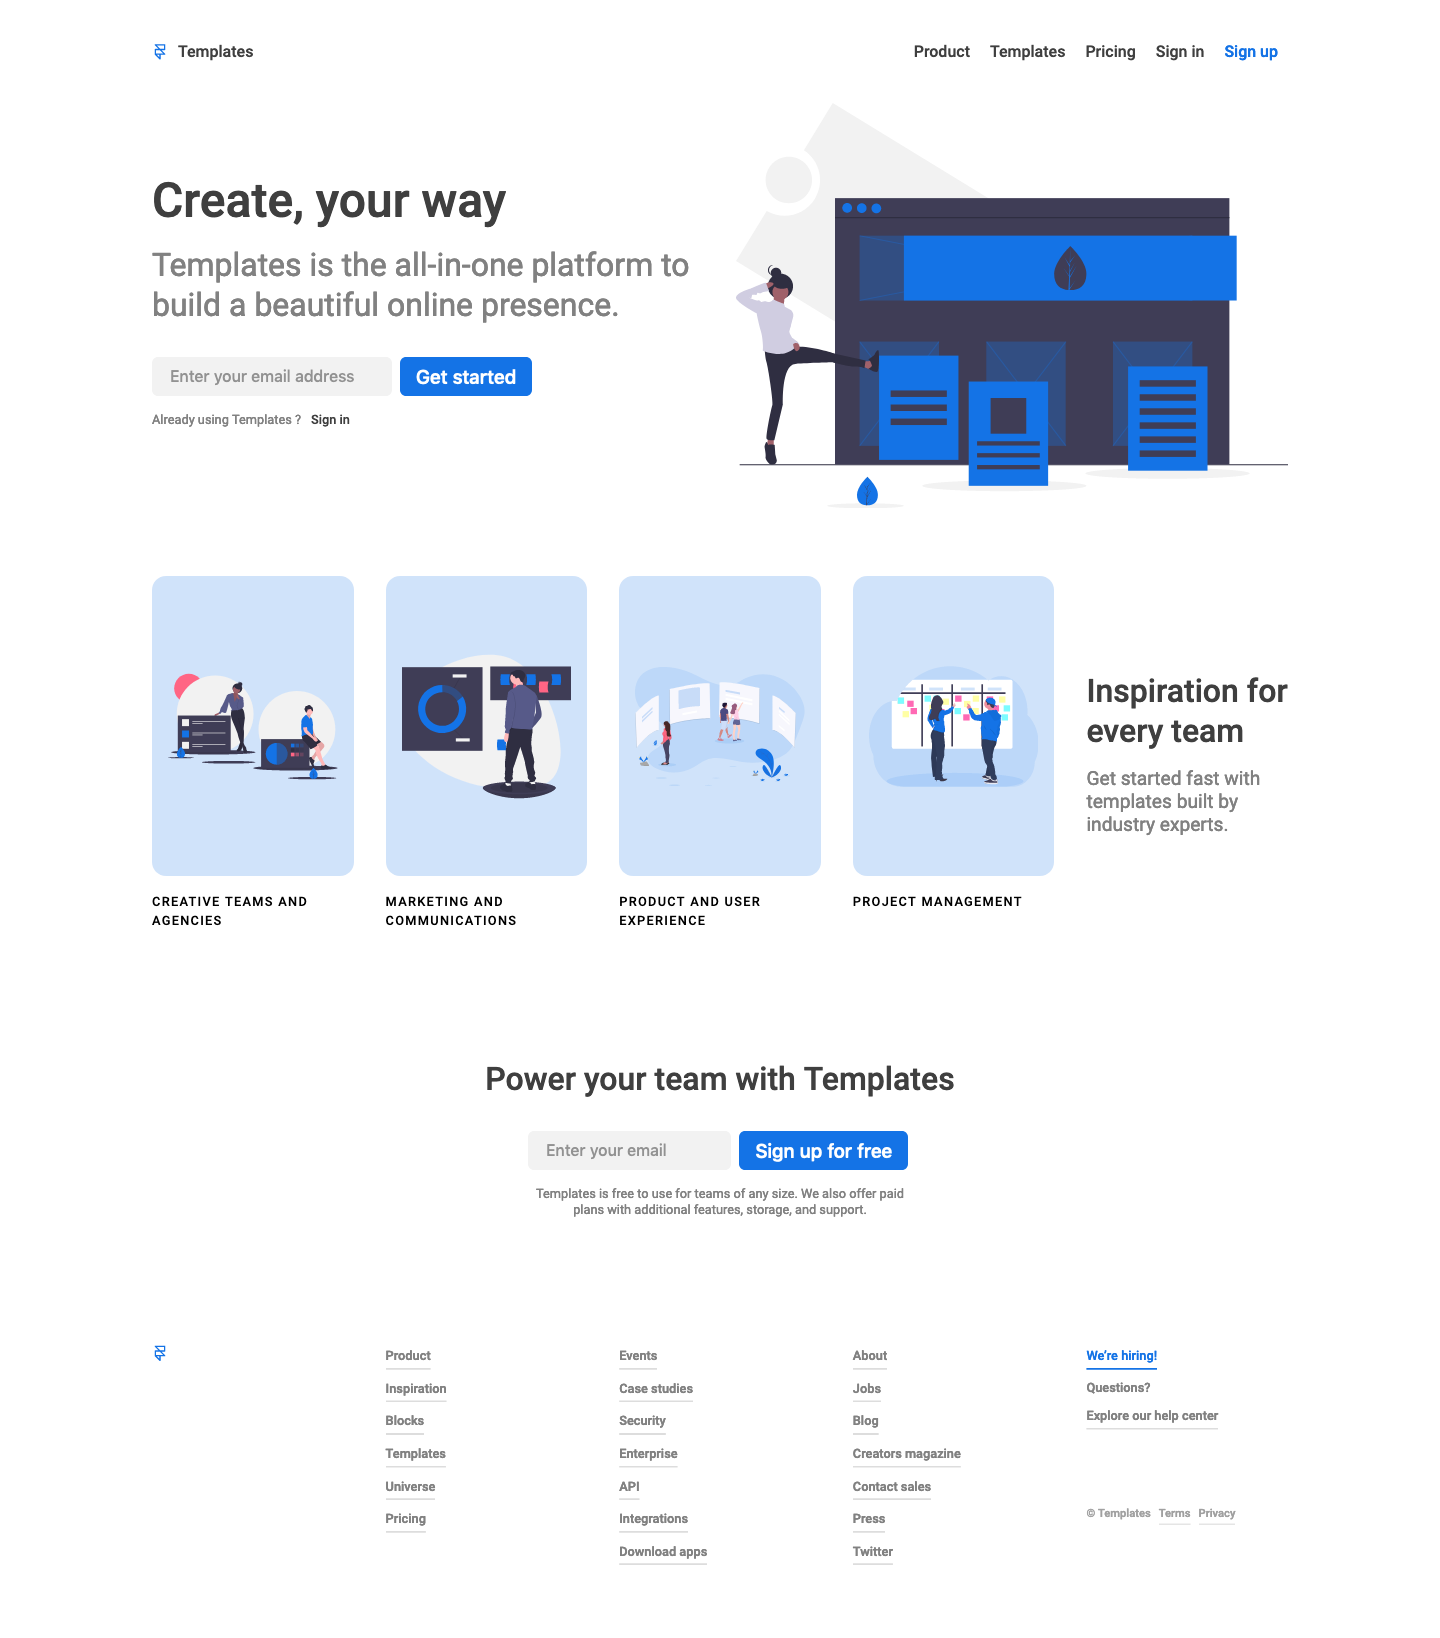
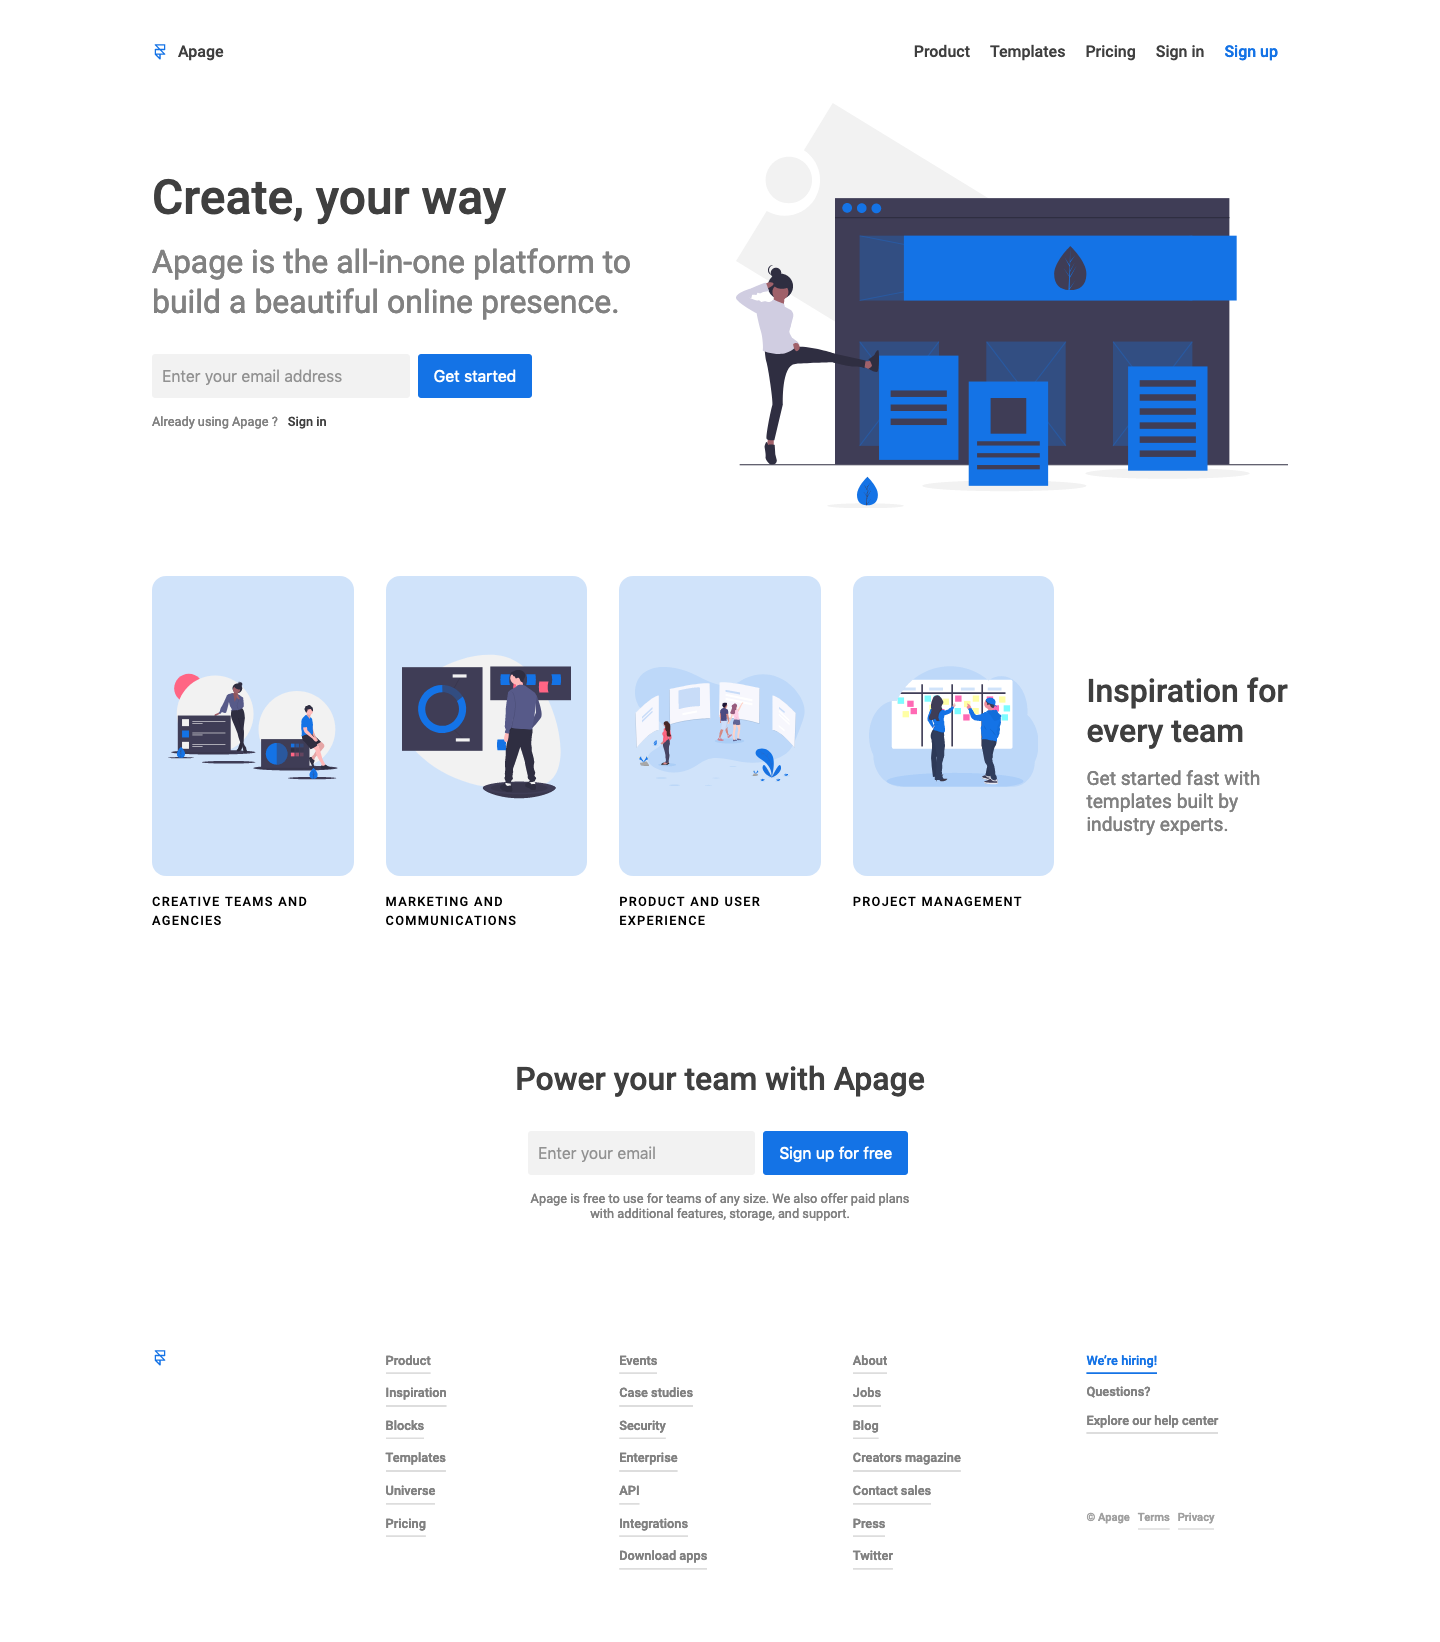
Updates branding

diff --git a/src/features/home/components/SignUp.js b/src/features/home/components/SignUp.js
@@ -2,6 +2,7 @@ import React from "react";
 import styled from "styled-components";
 
 import EmailForm from "./EmailForm";
+import { NAME } from "../../../core/constants";
 
 const Wrapper = styled.section`
   padding: 4rem 2rem;
@@ -33,15 +34,15 @@ const Text = styled.div`
 function SignUp() {
   return (
     <Wrapper>
-      <Title>Power your team with Templates</Title>
+      <Title>Power your team with {NAME}</Title>
       <Center>
         <EmailForm
           placeholderText="Enter your email"
           ctaText="Sign up for free"
         />
         <Text>
-          Templates is free to use for teams of any size. We also offer paid
-          plans with additional features, storage, and support.
+          {NAME} is free to use for teams of any size. We also offer paid plans
+          with additional features, storage, and support.
         </Text>
       </Center>
     </Wrapper>

diff --git a/src/features/home/components/Hero.js b/src/features/home/components/Hero.js
@@ -5,6 +5,7 @@ import { Link } from "react-router-dom";
 
 import EmailForm from "./EmailForm";
 import LandingPage from "../styles/illustrations/LandingPage";
+import { NAME } from "../../../core/constants";
 
 const Container = styled.section`
   padding: 0 2rem;
@@ -74,13 +75,12 @@ function Hero(props) {
         <HeroText>
           <Title>Create, your way</Title>
           <Subtitle>
-            Templates is the all-in-one platform to build a beautiful online
+            {NAME} is the all-in-one platform to build a beautiful online
             presence.
           </Subtitle>
           <EmailForm />
           <Note>
-            Already using Templates ?
-            <StyledLink to="/login">Sign in</StyledLink>
+            Already using {NAME} ?<StyledLink to="/login">Sign in</StyledLink>
           </Note>
         </HeroText>
         <Illustration>

diff --git a/src/features/auth/components/Login.js b/src/features/auth/components/Login.js
@@ -13,6 +13,7 @@ import Button from "../../commonComponents/Button";
 import Input from "../../commonComponents/Input";
 import FormItem from "../../commonComponents/FormItem";
 import { login } from "../actions/authActionCreators";
+import { NAME } from "../../../core/constants";
 
 const Wrapper = styled.div`
   @media (min-width: 576px) {
@@ -154,7 +155,7 @@ const FormikForm = props => {
         <Header>
           <BrandLink to="/">
             <Logo color={props.theme.brand} />
-            <BrandText>Templates</BrandText>
+            <BrandText>{NAME}</BrandText>
           </BrandLink>
         </Header>
         <FormWrapper>

diff --git a/src/features/auth/components/Signup.js b/src/features/auth/components/Signup.js
@@ -14,6 +14,7 @@ import Input from "../../commonComponents/Input";
 import FormItem from "../../commonComponents/FormItem";
 import { signup } from "../actions/authActionCreators";
 import utils from "../../../core/utils";
+import { NAME } from "../../../core/constants";
 
 const Wrapper = styled.div`
   @media (min-width: 576px) {
@@ -162,7 +163,7 @@ const FormikForm = props => {
         <Header>
           <BrandLink to="/">
             <Logo color={props.theme.brand} />
-            <BrandText>Templates</BrandText>
+            <BrandText>{NAME}</BrandText>
           </BrandLink>
         </Header>
         <FormWrapper>

diff --git a/src/features/home/components/Footer.js b/src/features/home/components/Footer.js
@@ -5,6 +5,7 @@ import { Link } from "react-router-dom";
 
 import Logo from "../../commonAssets/icons/Logo";
 import { FOOTER_LINKS } from "../constants/homeConstants";
+import { NAME } from "../../../core/constants";
 
 const Wrapper = styled.section`
   padding: 4rem 2rem;
@@ -106,7 +107,7 @@ function Footer(props) {
           </div>
           <LegalWrapper>
             <Text mr={0.5} small quiet={0.75}>
-              © Templates
+              © {NAME}
             </Text>
             <StyledLink mr={0.5} small="true" quiet={0.75} to="/tos">
               Terms

diff --git a/src/features/home/components/Header.js b/src/features/home/components/Header.js
@@ -4,6 +4,7 @@ import styled, { withTheme } from "styled-components";
 import { Link } from "react-router-dom";
 
 import Logo from "../../commonAssets/icons/Logo";
+import { NAME } from "../../../core/constants";
 
 const Container = styled.div`
   padding: 0 2rem;
@@ -53,7 +54,7 @@ function Header(props) {
       <Nav>
         <BrandLink to="/">
           <Logo color={theme.brand} />
-          <BrandText>Templates</BrandText>
+          <BrandText>{NAME}</BrandText>
         </BrandLink>
         <Links>
           <StyledLink to="/">Product</StyledLink>

diff --git a/public/index.html b/public/index.html
@@ -2,11 +2,11 @@
 <html lang="en">
   <head>
     <meta charset="utf-8" />
-    <link rel="shortcut icon" href="%PUBLIC_URL%/favicon.ico" />
+    <link rel="shortcut icon" hrefs="%PUBLIC_URL%/favicon.ico" />
     <meta name="viewport" content="width=device-width, initial-scale=1" />
     <meta name="theme-color" content="#000000" />
     <link rel="manifest" href="%PUBLIC_URL%/manifest.json" />
-    <title>Templates</title>
+    <title>Apage</title>
   </head>
   <body>
     <noscript>You need to enable JavaScript to run this app.</noscript>

diff --git a/src/features/card/components/Home.js b/src/features/card/components/Home.js
@@ -4,6 +4,7 @@ import styled, { withTheme } from "styled-components";
 import { Link } from "react-router-dom";
 
 import Logo from "../../commonAssets/icons/Logo";
+import { NAME } from "../../../core/constants";
 
 const Wrapper = styled.div`
   padding: 0 2rem;
@@ -64,7 +65,7 @@ function Home(props) {
           <LogoWrapper>
             <Logo color={theme.brand} />
           </LogoWrapper>
-          <BrandText>Templates</BrandText>
+          <BrandText>{NAME}</BrandText>
         </BrandLink>
       </Header>
       <StyledList>

diff --git a/src/core/constants/index.js b/src/core/constants/index.js
@@ -1,4 +1,4 @@
-export const NAME = "Templates";
+export const NAME = "Apage";
 
 export default {
   NAME

diff --git a/README.md b/README.md
@@ -1,8 +1,8 @@
-# Templates client
+# Apage client
 
 [![style: styled-components](https://img.shields.io/badge/style-%F0%9F%92%85%20styled--components-orange.svg?colorB=daa357&colorA=db748e)](https://github.com/styled-components/styled-components)
 [![code style: prettier](https://img.shields.io/badge/code_style-prettier-ff69b4.svg)](https://github.com/prettier/prettier)
-[![GitHub license](https://img.shields.io/badge/license-MIT-blue.svg)](https://github.com/malcodeman/templates-client/blob/master/LICENSE)
+[![GitHub license](https://img.shields.io/badge/license-MIT-blue.svg)](https://github.com/malcodeman/apage-client/blob/master/LICENSE)
 
 Single-page websites for all kinds of things.
 
@@ -13,16 +13,16 @@ Single-page websites for all kinds of things.
 First, clone and run the api:
 
 ```
-git clone https://github.com/malcodeman/templates-api.git templates-api
-cd templates-api
+git clone https://github.com/malcodeman/apage-api.git apage-api
+cd apage-api
 yarn install && yarn start
 ```
 
 Next, you can clone and run the frontend:
 
 ```
-git clone https://github.com/malcodeman/templates-client.git templates-client
-cd templates-client
+git clone https://github.com/malcodeman/apage-client.git apage-client
+cd apage-client
 yarn install && yarn start
 ```
 
